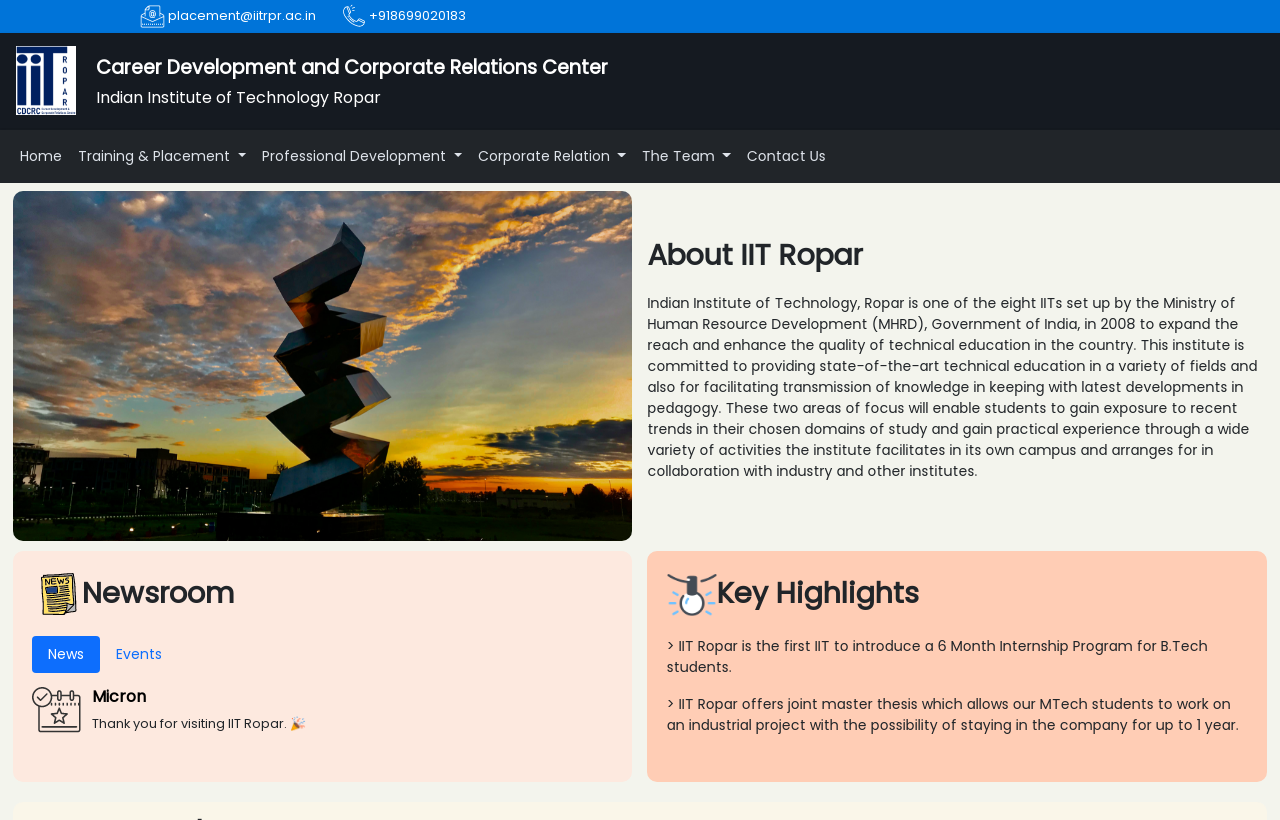
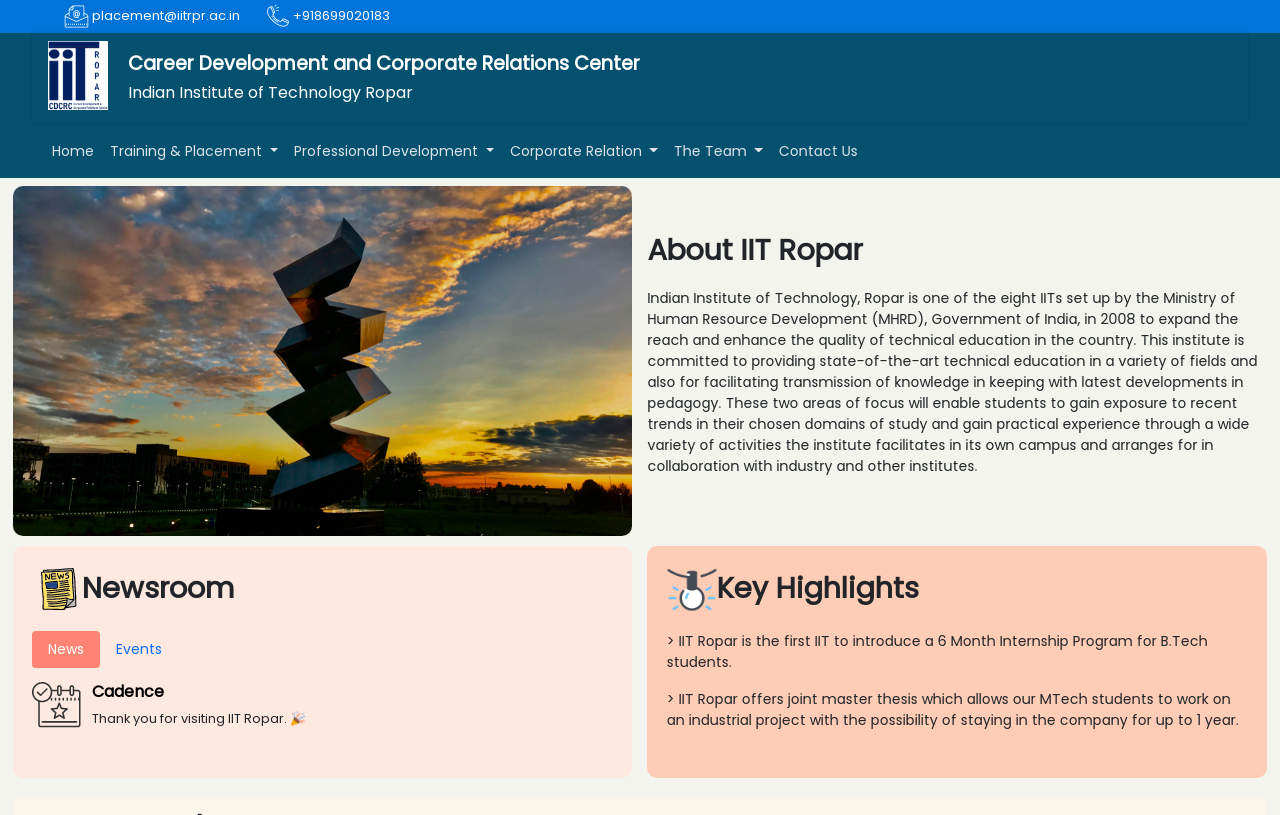
Minor UI fix and color change

diff --git a/backend/src/templates/accounts/login.html b/backend/src/templates/accounts/login.html
@@ -1,20 +1,11 @@
 {% extends 'base.html' %} {% load static %} {% block head_content %}
 <title>CDCRC IIT Ropar | Login</title>
-<link
-  href="{% static '_styles_build/internal/login.css' %}"
-  rel="stylesheet"
-  type="text/css"
-/>
+<link href="{% static '_styles_build/internal/login.css' %}" rel="stylesheet" type="text/css" />
 {% endblock head_content %} {% block body_content %}
-<style>
-  body {
-    background-color: #dbe1e6;
-  }
-</style>
 <div class="login_wrapper">
   <div class="form_wrapper">
     {% if user.is_authenticated %}
-    <h3>You are already logged in</h3>
+    <div class="already_logged_in_message">You are already logged in</div>
     {% else %}
     <div class="heading">Login for Students and Team Members</div>
     <hr />
@@ -22,38 +13,15 @@
       {% csrf_token %}
       <div class="form-group">
         <label for="id_username"> Username </label>
-        <input
-          type="text"
-          class="form-control"
-          name="username"
-          autofocus=""
-          autocapitalize="none"
-          autocomplete="username"
-          maxlength="150"
-          required=""
-          placeholder="Your Username"
-          id="id_username"
-        />
+        <input type="text" class="form-control" name="username" autofocus="" autocapitalize="none"
+          autocomplete="username" maxlength="150" required="" placeholder="Your Username" id="id_username" />
       </div>
       <div class="form-group">
         <label for="id_password"> Password </label>
-        <input
-          type="password"
-          class="form-control"
-          name="password"
-          autocomplete="current-password"
-          placeholder="Your Password"
-          required=""
-          id="id_password"
-        />
+        <input type="password" class="form-control" name="password" autocomplete="current-password"
+          placeholder="Your Password" required="" id="id_password" />
       </div>
-      <button
-        class="button login-btn"
-        input
-        type="submit"
-        value="Login"
-        style="vertical-align: middle"
-      >
+      <button class="button login-btn" input type="submit" value="Login" style="vertical-align: middle">
         <span>Log In </span>
       </button>
     </form>
@@ -62,11 +30,10 @@
     </a>
 
     <div class="dropdown-divider"></div>
-    <a href="{% url 'signup' %}" class="signup_btn_wrapper"
-      ><button class="button signup-btn" style="vertical-align: middle">
+    <a href="{% url 'signup' %}" class="signup_btn_wrapper"><button class="button signup-btn"
+        style="vertical-align: middle">
         <span>Sign Up</span>
-      </button></a
-    >
+      </button></a>
   </div>
 
   {% endif %}

diff --git a/backend/src/static/styles/base/base.scss b/backend/src/static/styles/base/base.scss
@@ -9,6 +9,8 @@
   box-sizing: border-box;
 }
 
+$navbar_footer_color: #03506f;
+
 $footer_height: 350px;
 
 body {
@@ -21,12 +23,18 @@ a {
   text-decoration: none;
 }
 
-.header_wrapper {
-  height: -webkit-fit-content;
-  height: -moz-fit-content;
-  height: fit-content;
-  background: $primarycolor-800;
+a:hover {
+  color: $color-accent;
+}
 
+
+@mixin navbar_header_sync {
+  margin: 0px 2.5%;
+}
+
+.header_wrapper {
+  height: fit-content;
+  background: $navbar_footer_color;
   .header {
     color: #fff;
     display: -ms-grid;
@@ -37,18 +45,18 @@ a {
     height: -webkit-fit-content;
     height: -moz-fit-content;
     height: fit-content;
-    -webkit-box-shadow: 0 1px 3px 0 rgba(0, 0, 0, 0.15);
-    box-shadow: 0 1px 3px 0 rgba(0, 0, 0, 0.15);
+    box-shadow: 0 0 3px 0 rgba(0, 0, 0, 0.15);
+    @include navbar_header_sync;
+    padding-top: 0.5rem;
+    padding-top: 0.5rem;
     margin-bottom: 2px;
   }
-
 
   .contact-info-wrapper {
     background: #0074d9;
     .contact-info {
       font-size: 0.8rem;
-      width: 95%;
-      max-width: 1000px;
+      width: 90%;
       margin: auto;
       padding: 4px 0px;
       display: -webkit-box;
@@ -157,6 +165,7 @@ a {
 }
 
 .navbar_wrapper {
+  @include navbar_header_sync;
   .nav-item .nav-link {
     color: $primarycolor-100 !important;
     &:hover {
@@ -173,7 +182,7 @@ a {
 
 .footer_wrapper footer {
   padding: 10px 16px;
-  background: $primarycolor-800;
+  background: $navbar_footer_color;
 }
 
 .footer_wrapper footer .mainContainer {

diff --git a/backend/src/templates/accounts/signup.html b/backend/src/templates/accounts/signup.html
@@ -9,10 +9,10 @@
       <div class="col-md-10">
         <br>
         <div class="jumbotron">
-          {% if user.is_authenticated %}
-          <h3>You are already logged in</h3>
-          {% else %}
           <div class="form_wrapper">
+            {% if user.is_authenticated %}
+            <div class="already_logged_in_message">You are already logged in</div>
+            {% else %}
             <div class="heading">
               Sign Up
               <hr>

diff --git a/backend/src/static/styles/internal/signup.scss b/backend/src/static/styles/internal/signup.scss
@@ -1,8 +1,10 @@
 @import "../global_mixins";
+@import "./commons.scss";
 
 body {
     background: #f0f2f5;
 }
+@include already_logged_in_styles;
 
 .signup_wrapper {
     width: 90%;
@@ -20,11 +22,9 @@ body {
 
         @include form_group_styles;
 
-
         .register-btn {
             width: 100%;
         }
-
     }
 
     margin-bottom: 20px;

diff --git a/backend/src/templates/accounts/password_reset_done.html b/backend/src/templates/accounts/password_reset_done.html
@@ -14,7 +14,7 @@
       <br />
       <div class="jumbotron">
         {% if user.is_authenticated %}
-        <p>You are already logged in :)</p>
+        <div class="already_logged_in_message">You are already logged in :)</div>
         {% else %}
         <p>
           We've emailed you instructions for setting your password, if an

diff --git a/backend/src/templates/accounts/password_reset_confirm.html b/backend/src/templates/accounts/password_reset_confirm.html
@@ -14,7 +14,7 @@
       <br />
       <div class="jumbotron">
         {% if user.is_authenticated %}
-        <p>You are already logged in :)</p>
+        <div class="already_logged_in_message">You are already logged in :)</div>
         {% else %} {% if validlink %}
         <h3>Change Password</h3>
         <form method="post">

diff --git a/backend/src/templates/accounts/password_reset_complete.html b/backend/src/templates/accounts/password_reset_complete.html
@@ -14,7 +14,7 @@
       <br />
       <div class="jumbotron">
         {% if user.is_authenticated %}
-        <p>You are already logged in :)</p>
+        <div class="already_logged_in_message">You are already logged in :)</div>
         {% else %}
         <p>
           Your password has been set. You may go ahead and

diff --git a/backend/src/static/styles/internal/commons.scss b/backend/src/static/styles/internal/commons.scss
@@ -1,0 +1,11 @@
+@mixin already_logged_in_styles {
+    .already_logged_in_message {
+        min-height: 30vh;
+        text-align: center;
+        font-weight: bold;
+        display: flex;
+        flex-direction: column;
+        justify-content: center;
+        font-size: 1.5rem;
+    }
+}

diff --git a/backend/src/templates/base.html b/backend/src/templates/base.html
@@ -146,7 +146,7 @@
       </div>
 
       <div class="navbar_wrapper">
-        <nav class="navbar navbar-expand-lg navbar-dark bg-dark">
+        <nav class="navbar navbar-expand-lg">
           <div class="container-fluid">
             <button
               class="navbar-toggler"

diff --git a/backend/src/static/styles/internal/login.scss b/backend/src/static/styles/internal/login.scss
@@ -1,8 +1,13 @@
 @import "../global_mixins";
+@import "./commons.scss";
+
 
 body {
   background: #f0f2f5;
 }
+
+@include already_logged_in_styles;
+
 
 .login_wrapper {
   width: 90%;

diff --git a/backend/src/static/styles/internal/global_password_reset.scss b/backend/src/static/styles/internal/global_password_reset.scss
@@ -1,3 +1,9 @@
+@import "../internal/commons.scss";
+
+
+@include already_logged_in_styles;
+
+
 .password_reset_message_wrapper{
     height: 40vh;
     display: flex;

diff --git a/backend/src/static/styles/info/css/home.scss b/backend/src/static/styles/info/css/home.scss
@@ -119,3 +119,7 @@ $home_page_border_radius: 10px;
     flex-direction: column;
   }
 }
+
+#News-tab.active, #Events-tab.active{
+  background: #ff8474; 
+}
